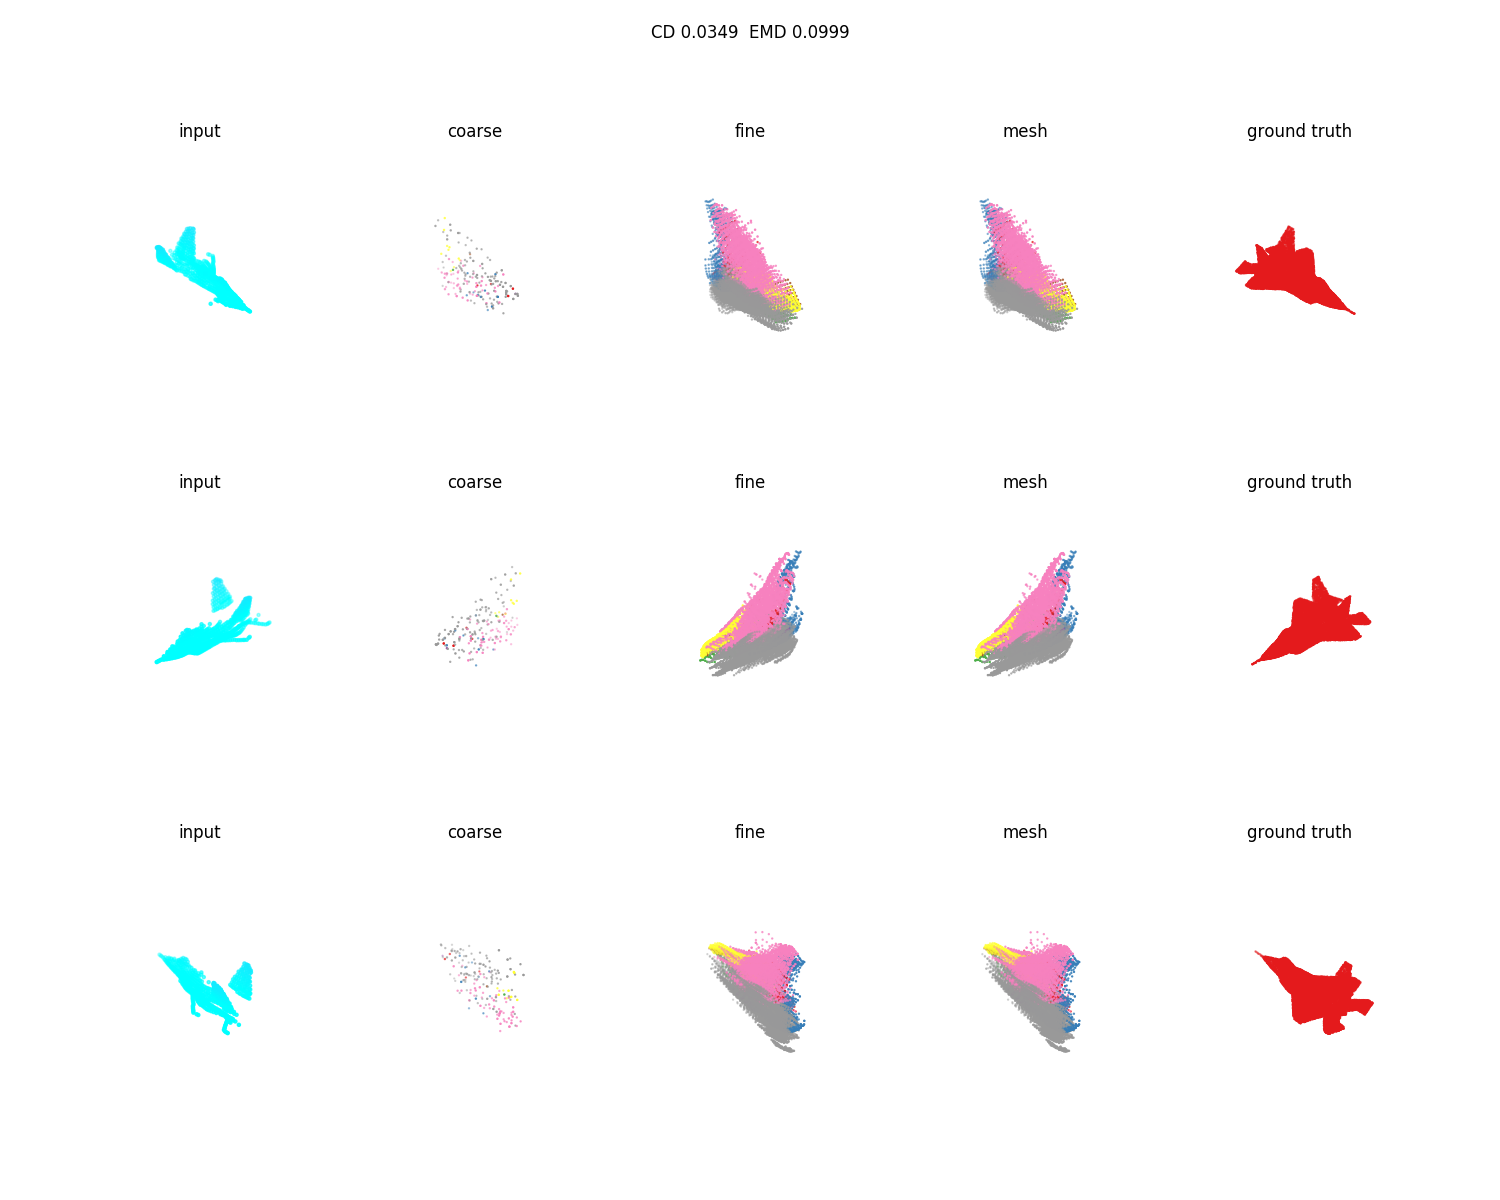
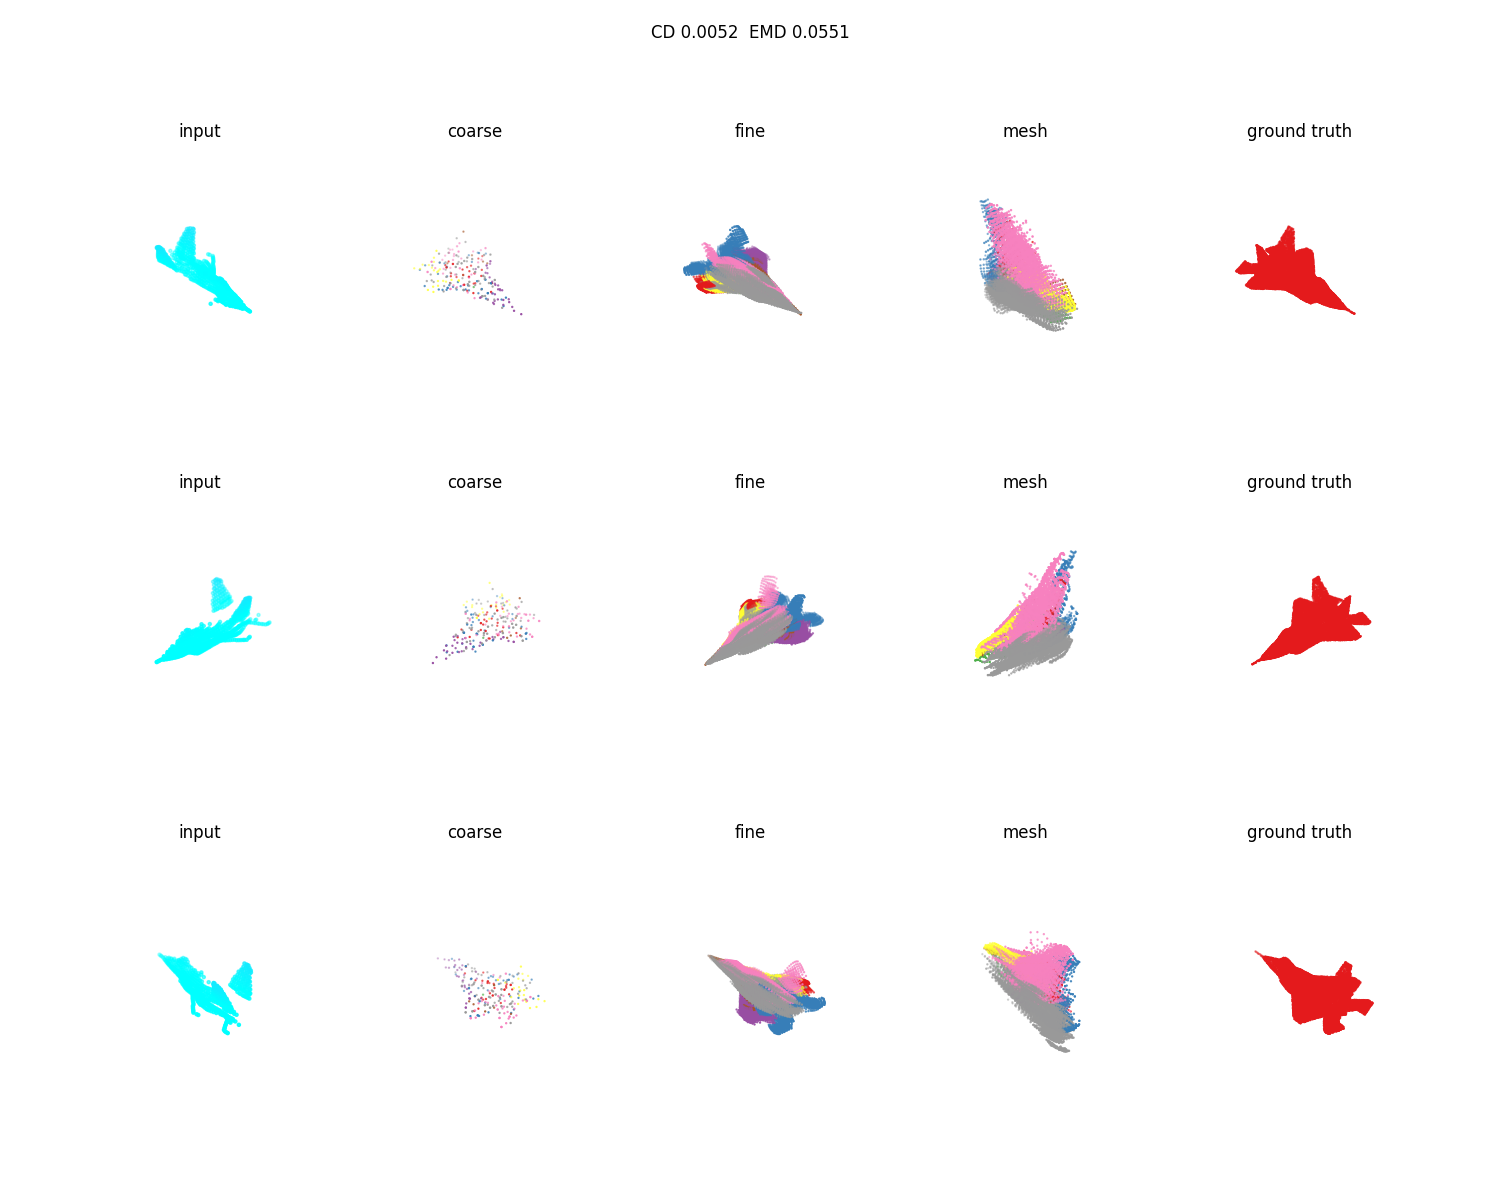
add plots

diff --git a/models/pcn_reg.py b/models/pcn_reg.py
@@ -17,9 +17,10 @@ class Model:
         self.channels = num_channel
         self.num_fine = self.grid_size ** 2 * self.num_coarse
         inputs_can, gt_can = self.canon_pose(gt, inputs, npts)
-        self.features = self.create_encoder(inputs_can, npts)
-        self.coarse, self.fine, self.mesh, self.entropy = self.create_decoder(self.features)
-        self.loss, self.update = self.create_loss(self.coarse, self.fine, gt, alpha, self.entropy)
+        self.features = self.create_encoder(inputs, npts)
+        self.coarse, self.fine, self.mesh = self.create_decoder(self.features)
+        _, self.canonical, _ = self.create_decoder(self.create_encoder(inputs_can, npts))
+        self.loss, self.update = self.create_loss(self.coarse, self.fine, gt, alpha)
         self.outputs1 = self.coarse
         self.outputs2 = self.fine
         self.visualize_ops = [tf.split(inputs[0], npts, axis=0), self.coarse, gt_can, self.fine, gt]
@@ -85,15 +86,7 @@ class Model:
             
             mesh = fine
 
-        p_coar_feat = tf.nn.softmax(coarse[:,:,3:3+self.channels], -1)
-        p_fine_feat = tf.nn.softmax(fine[:,:,3:3+self.channels], -1)
-        p_regions_feat = tf.nn.softmax(regions, -1)
-        p_coar_samp = tf.reduce_mean(p_coar_feat, [1])
-        p_fine_samp = tf.reduce_mean(p_fine_feat, [1])
-        # entropy = tf.nn.relu(tf.log(self.channels*1.0) + tf.reduce_mean(tf.reduce_sum(p_coar_samp * tf.log(p_coar_samp), [1]), [0]))
-        # entropy += tf.nn.relu(tf.log(self.channels*1.0) + tf.reduce_mean(tf.reduce_sum(p_fine_samp * tf.log(p_fine_samp), [1]), [0]))
-        entropy = tf.reduce_mean(tf.nn.softmax_cross_entropy_with_logits(labels=p_regions_feat, logits=p_fine_feat))
-        return coarse, fine, mesh, entropy
+        return coarse, fine, mesh
 
     """
     def create_decoder_sp(self, features):
@@ -130,7 +123,15 @@ class Model:
         return coarse, fine, mesh, entropy
     """
 
-    def create_loss(self, coarse, fine, gt, alpha, entropy):
+    def create_loss(self, coarse, fine, gt, alpha):
+        p_coar_feat = tf.nn.softmax(coarse[:,:,3:3+self.channels], -1)
+        p_fine_feat = tf.nn.softmax(fine[:,:,3:3+self.channels], -1)
+        p_can_feat = tf.nn.softmax(self.canonical[:,:,3:3+self.channels], -1)
+        p_coar_samp = tf.reduce_mean(p_coar_feat, [1])
+        p_fine_samp = tf.reduce_mean(p_fine_feat, [1])
+        # entropy = tf.nn.relu(tf.log(self.channels*1.0) + tf.reduce_mean(tf.reduce_sum(p_coar_samp * tf.log(p_coar_samp), [1]), [0]))
+        # entropy += tf.nn.relu(tf.log(self.channels*1.0) + tf.reduce_mean(tf.reduce_sum(p_fine_samp * tf.log(p_fine_samp), [1]), [0]))
+        entropy = tf.reduce_mean(tf.nn.softmax_cross_entropy_with_logits(labels=p_can_feat, logits=p_fine_feat))
         loss_coarse = chamfer(coarse[:,:,0:3], gt[:,:,0:3])
         """
         _, retb, _, retd = tf_nndistance.nn_distance(coarse[:,:,0:3], gt[:,:,0:3])
@@ -161,7 +162,7 @@ class Model:
         add_train_summary('train/fine_loss', loss_fine)
         update_fine = add_valid_summary('valid/fine_loss', loss_fine)
 
-        loss = alpha * loss_coarse + loss_fine # + entropy
+        loss = alpha * loss_coarse + loss_fine + entropy
         add_train_summary('train/loss', loss)
         update_loss = add_valid_summary('valid/loss', loss)
 

diff --git a/test_shapenet.py b/test_shapenet.py
@@ -66,7 +66,7 @@ def test(args):
         partial = partial[:,:3]
         complete = resample_pcd(complete, 16384)
         start = time.time()
-        completion1, completion2, mesh_out = sess.run([model.outputs1, model.outputs2, model.mesh], feed_dict={inputs: [partial], npts: [partial.shape[0]], gt: [complete]})
+        completion1, completion2, mesh_out = sess.run([model.outputs1, model.outputs2, model.canonical], feed_dict={inputs: [partial], npts: [partial.shape[0]], gt: [complete]})
         completion1[0][:, (3+args.num_channel):] *= 0
         completion2[0][:, (3+args.num_channel):] *= 0
         mesh_out[0][:, (3+args.num_channel):] *= 0
